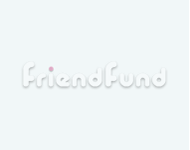
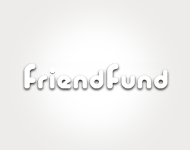
updated default product piture, login experiment1 closed, trying closed cycle login

Changed region(s): [[0.1053, 0.4267, 0.8947, 0.6133]]

diff --git a/friendfund/public/js/friendfund/PartnerPanel.js b/friendfund/public/js/friendfund/PartnerPanel.js
@@ -5,7 +5,7 @@ dojo.declare("friendfund.PartnerPanel", null, {
 		var _t = this;
 		dojo.mixin(_t, args);
 		_t.triedSubmitting = false;
-		_t.ref_node = dojo.isString(_t.ref_node) && dojo.byId(_t.ref_node) || _t.ref_node;
+		_t.target_form = dojo.isString(_t.target_form) && dojo.byId(_t.target_form) || _t.target_form;
 		_t.connect();
 		_t.load_receiver();
 		
@@ -70,7 +70,7 @@ dojo.declare("friendfund.PartnerPanel", null, {
 								mutuals : _t.mutuals,
 								global_invited_node : _t.invited_node,
 								avail_selectors : {'facebook':true, 'twitter':true, 'email':true},
-								onSelect : function(ctx, params, elem, evt){
+								onSelect : function(ctx, elem, evt){
 									_t.selector.removeAll(_t.selector);
 									ctx.inviteAppendNode(ctx, elem);
 									dojo.addClass(_t.invited_node, "filled");
@@ -85,21 +85,24 @@ dojo.declare("friendfund.PartnerPanel", null, {
 							});
 		_t.selector.draw(_t.method);
 	},
-	submit : function(url){
+	submit : function(url, level, evt){
 		var _t = this;
-		var complete = _t.checkCompleteness();
-		if(!complete){
-			_t.triedSubmitting = true;
-		} else {
-			protect(
-				function(data){
-					dojo.query("input[type=submit]").attr("disabled","disabled");
-					_t.ref_node.action = url;
-					_t.ref_node.submit();
-				})();
-		}
-		return false;
+		onSubmitCleaner(_t.target_form); 
+		if(_t.submitting){return false;}
+		_t.submitting = true;
+		return protected(level, dojo.hitch(null, _t._submit, _t, url), function(){
+			_t.submitting = false
+		});
+ 	},_submit:function(_t, url){
+		dojo.query("input[type=submit]").attr("disabled","disabled");
+		_t.target_form.action = url;
+		_t.target_form.onsubmit = function(){};
+		_t.target_form.submit();
 	},
+	
+	
+	
+	
 	checkCompleteness : function(){
 		var _t = this;
 		var a = _t.check_receiver(), b = _t.check_occasion_name(), c = _t.check_occasion_date();

diff --git a/friendfund/templates_free_form/partner/iframe.html b/friendfund/templates_free_form/partner/iframe.html
@@ -18,13 +18,14 @@
 <%def name="onloadscripts()">
 	ffp_panel = new friendfund.PartnerPanel({
 					container : "receiverSelectorContainer"
-					,ref_node : "button_panel_Form"
+					,target_form : "button_panel_Form"
 					,method : "${c.method}"
 					,invited_node:"selectedReceiver"
 					,mutuals:false
 					,base_url:"/myfriends"
 			});
-	document.forms.poolCreateForm.onsubmit = dojo.hitch(ffp_panel, ffp_panel.submit, "${url(controller="partner", action="validate")}");
+	window.pageState.sbmt = dojo.hitch(ffp_panel, ffp_panel.submit, "${url(controller="partner", action="validate")}", 9);
+	document.forms.poolCreateForm.onsubmit = function(){return window.pageState.sbmt()};
 	fbLogout = function(){
 	FB.getLoginStatus(function(response){
 		if(response.session){

diff --git a/friendfund/public/js/friendfund/InvitePage.js b/friendfund/public/js/friendfund/InvitePage.js
@@ -32,7 +32,7 @@ dojo.declare("friendfund.InvitePage", null, {
 		onSubmitCleaner(_t.target_form); 
 		if(_t.submitting){return false;}
 		_t.submitting = true;
-		protected(level, dojo.hitch(null, _t._submit, _t), function(){_t.submitting = false});
+		return protected(level, dojo.hitch(null, _t._submit, _t), function(){_t.submitting = false});
  	},_submit:function(_t){
 		dojo.forEach(_t._widget_locals, function(item){item.destroy(item);});
 		_t._widget_locals = [];

diff --git a/friendfund/public/js/friendfund/FriendSelector.js b/friendfund/public/js/friendfund/FriendSelector.js
@@ -76,7 +76,7 @@ dojo.declare("friendfund.EmailFriendSelector", friendfund._Selector, {
 	},
 	_onSelect : function(_t, data){
 		if(data.success===true){
-			_t.onSelect(_t, data, data.html, null);
+			_t.onSelect(_t, data.html, null);
 			dojo.place(data.input_html, _t.rootNode, "only");
 		} else {
 			dojo.place(data.html, _t.rootNode, "only");

diff --git a/friendfund/controllers/content.py b/friendfund/controllers/content.py
@@ -103,6 +103,17 @@ class ContentController(BaseController):
 	
 	@default_domain_only()
 	@provide_lang()
+	def tips(self, lang = None):
+		if lang:
+			try:
+				return self.render("/content/localized/pool_tips_%s.html" % lang)
+			except:
+				return self.render("/content/localized/pool_tips.html")
+		else:
+			return self.render("/content/localized/pool_tips.html")
+	
+	@default_domain_only()
+	@provide_lang()
 	def learn_more(self, lang = None):
 		if lang:
 			try:

diff --git a/friendfund/controllers/myfriends.py b/friendfund/controllers/myfriends.py
@@ -23,6 +23,7 @@ class MyfriendsController(BaseController):
 		c.method = str(method)
 		c.mutuals = False
 		c.all = False
+		c.clearance_level = 9
 		if method in ['facebook', 'twitter']:
 			pv =  request.params.getall('pv')
 			is_complete = True
